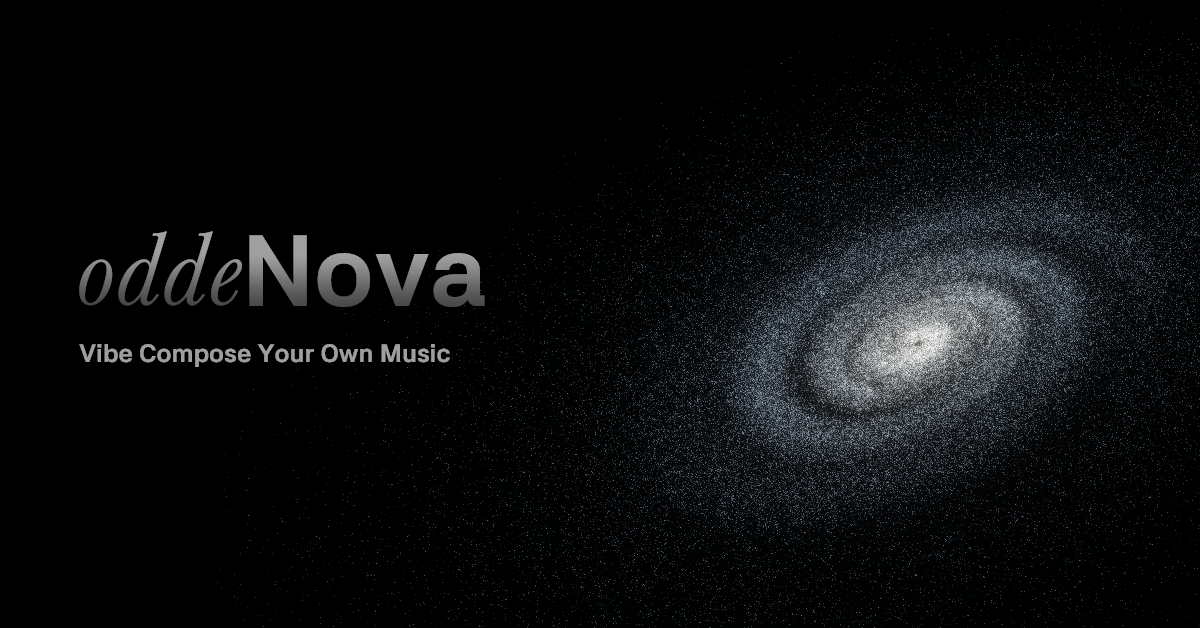
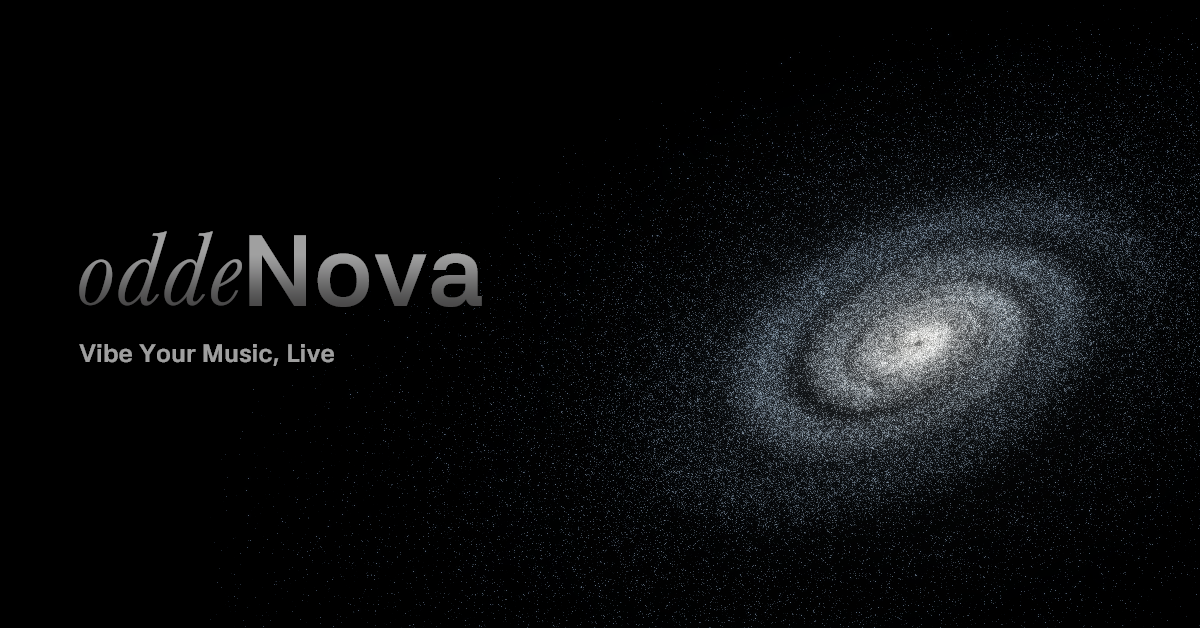
Add share page rendering and locale support
Introduce server-side share page rendering and locale-aware metadata. Adds a new API endpoint (api/share-page.ts) that fetches share payloads from blob storage, injects localized meta tags into the app shell via a new service (src/services/share-page-meta.ts), and returns an HTML page (cached for 5 minutes s-maxage=300). Add locale support to the share payload and upload flow (src/services/share.ts), pass locale from the UI (TopActionBar), and add unit tests for share-page meta rendering and share upload adjustments. Update index.html descriptions/OG text and the OG image asset, and add a Vercel rewrite so /s/:id routes to the share-page API. Tests and related fixtures added under src/services/__tests__.

Changed region(s): [[0.0925, 0.5446, 0.37, 0.5748], [0.3083, 0.3933, 0.4008, 0.4841]]

diff --git a/src/services/__tests__/share-page-meta.test.ts b/src/services/__tests__/share-page-meta.test.ts
@@ -1,0 +1,63 @@
+import { describe, expect, it } from 'vitest';
+import { renderShareHtml } from '../share-page-meta';
+
+const baseHtml = `<!doctype html>
+<html lang="zh-CN">
+  <head>
+    <meta
+      name="description"
+      content="old description"
+    />
+    <meta property="og:title" content="old title" />
+    <meta
+      property="og:description"
+      content="old og description"
+    />
+    <meta property="og:url" content="https://oddenova.com/" />
+    <meta name="twitter:title" content="old twitter title" />
+    <meta
+      name="twitter:description"
+      content="old twitter description"
+    />
+    <title>old page title</title>
+  </head>
+  <body><div id="root"></div><script type="module" src="/assets/app.js"></script></body>
+</html>`;
+
+describe('renderShareHtml', () => {
+  it('uses Chinese share metadata for zh-CN payloads', () => {
+    const html = renderShareHtml(baseHtml, {
+      locale: 'zh-CN',
+      url: 'https://oddenova.com/s/abc123',
+    });
+
+    expect(html).toContain('<html lang="zh-CN">');
+    expect(html).toContain('content="oddeNova | Vibe Your Live Music"');
+    expect(html).toContain('content="即兴 vibe 音乐，让灵感，自由发声"');
+    expect(html).toContain('property="og:url" content="https://oddenova.com/s/abc123"');
+    expect(html).toContain('<title>oddeNova | Vibe Your Live Music</title>');
+  });
+
+  it('uses English share metadata for en payloads', () => {
+    const html = renderShareHtml(baseHtml, {
+      locale: 'en',
+      url: 'https://oddenova.com/s/abc123',
+    });
+
+    expect(html).toContain('<html lang="en">');
+    expect(html).toContain('content="oddeNova | Vibe Your Live Music"');
+    expect(html).toContain('name="description"\n      content="Vibes in your head -&gt; Music in your ears"');
+    expect(html).toContain('property="og:description"\n      content="Vibes in your head -&gt; Music in your ears"');
+    expect(html).toContain('name="twitter:description"\n      content="Vibes in your head -&gt; Music in your ears"');
+    expect(html).toContain('property="og:url" content="https://oddenova.com/s/abc123"');
+  });
+
+  it('defaults old payloads without locale to Chinese metadata', () => {
+    const html = renderShareHtml(baseHtml, {
+      url: 'https://oddenova.com/s/old123',
+    });
+
+    expect(html).toContain('<html lang="zh-CN">');
+    expect(html).toContain('content="即兴 vibe 音乐，让灵感，自由发声"');
+  });
+});

diff --git a/index.html b/index.html
@@ -6,7 +6,7 @@
     <meta name="viewport" content="width=device-width, initial-scale=1.0, viewport-fit=cover" />
     <meta
       name="description"
-      content="oddeNova是一款即兴音乐制作agent。你如何vibe coding，就如何vibe一支属于你自己的单曲。让灵感，自由发声。"
+      content="Vibes in your head -> Music in your ears"
     />
     <meta name="robots" content="index, follow" />
     <meta name="application-name" content="oddeNova" />
@@ -17,7 +17,7 @@
     <meta property="og:title" content="oddeNova | Vibe Your Live Music" />
     <meta
       property="og:description"
-      content="oddeNova是一款即兴音乐制作agent。你如何vibe coding，就如何vibe一支属于你自己的单曲。让灵感，自由发声。"
+      content="Vibes in your head -> Music in your ears"
     />
     <meta property="og:type" content="website" />
     <meta property="og:url" content="https://oddenova.com/" />
@@ -28,7 +28,7 @@
     <meta name="twitter:title" content="oddeNova | Vibe Your Live Music" />
     <meta
       name="twitter:description"
-      content="oddeNova是一款即兴音乐制作agent。你如何vibe coding，就如何vibe一支属于你自己的单曲。让灵感，自由发声。"
+      content="Vibes in your head -> Music in your ears"
     />
     <meta name="twitter:image" content="https://oddenova.com/oddenova-og.png" />
 
@@ -40,7 +40,7 @@
         "url": "https://oddenova.com/",
         "applicationCategory": "MultimediaApplication",
         "operatingSystem": "Web",
-        "description": "oddeNova是一款即兴音乐制作agent。你如何vibe coding，就如何vibe一支属于你自己的单曲。让灵感，自由发声。",
+        "description": "Vibes in your head -> Music in your ears",
         "inLanguage": ["zh-CN", "en"],
         "image": "https://oddenova.com/oddenova-og.png",
         "offers": {

diff --git a/src/services/share-page-meta.ts b/src/services/share-page-meta.ts
@@ -1,0 +1,49 @@
+import type { ShareLocale } from './share';
+
+const SHARE_TITLE = 'oddeNova | Vibe Your Live Music';
+const SHARE_IMAGE = 'https://oddenova.com/oddenova-og.png';
+
+const SHARE_DESCRIPTIONS: Record<ShareLocale, string> = {
+  'zh-CN': '即兴 vibe 音乐，让灵感，自由发声',
+  en: 'Vibes in your head -> Music in your ears',
+};
+
+interface RenderShareHtmlOptions {
+  locale?: ShareLocale;
+  url: string;
+}
+
+function normalizeLocale(locale: unknown): ShareLocale {
+  return locale === 'en' ? 'en' : 'zh-CN';
+}
+
+function escapeHtmlAttr(value: string): string {
+  return value
+    .replaceAll('&', '&amp;')
+    .replaceAll('"', '&quot;')
+    .replaceAll('<', '&lt;')
+    .replaceAll('>', '&gt;');
+}
+
+function replaceMeta(html: string, selector: string, value: string): string {
+  const escaped = escapeHtmlAttr(value);
+  const pattern = new RegExp(`(<meta\\b(?=[^>]*${selector})[^>]*\\bcontent=")[^"]*("[^>]*>)`, 'i');
+  return html.replace(pattern, `$1${escaped}$2`);
+}
+
+export function renderShareHtml(html: string, options: RenderShareHtmlOptions): string {
+  const locale = normalizeLocale(options.locale);
+  const description = SHARE_DESCRIPTIONS[locale];
+
+  let out = html.replace(/<html\b[^>]*>/i, `<html lang="${locale}">`);
+  out = out.replace(/<title>.*?<\/title>/i, `<title>${SHARE_TITLE}</title>`);
+  out = replaceMeta(out, 'name="description"', description);
+  out = replaceMeta(out, 'property="og:title"', SHARE_TITLE);
+  out = replaceMeta(out, 'property="og:description"', description);
+  out = replaceMeta(out, 'property="og:url"', options.url);
+  out = replaceMeta(out, 'property="og:image"', SHARE_IMAGE);
+  out = replaceMeta(out, 'name="twitter:title"', SHARE_TITLE);
+  out = replaceMeta(out, 'name="twitter:description"', description);
+  out = replaceMeta(out, 'name="twitter:image"', SHARE_IMAGE);
+  return out;
+}

diff --git a/api/share-page.ts b/api/share-page.ts
@@ -1,0 +1,52 @@
+import type { VercelRequest, VercelResponse } from '@vercel/node';
+import { list } from '@vercel/blob';
+import { renderShareHtml } from '../src/services/share-page-meta';
+import type { SharePayload } from '../src/services/share';
+
+function getRequestOrigin(req: VercelRequest): string {
+  const proto = String(req.headers['x-forwarded-proto'] ?? 'https').split(',')[0];
+  const host = req.headers.host;
+  return `${proto}://${host}`;
+}
+
+export default async function handler(req: VercelRequest, res: VercelResponse) {
+  if (req.method !== 'GET') {
+    res.status(405).send('Method not allowed');
+    return;
+  }
+
+  const id = req.query['id'];
+  if (!id || typeof id !== 'string') {
+    res.status(400).send('Missing id');
+    return;
+  }
+
+  const { blobs } = await list({ prefix: `shares/${id}.json`, limit: 1 });
+  if (blobs.length === 0) {
+    res.status(404).send('Not found');
+    return;
+  }
+
+  const blobRes = await fetch(blobs[0].url);
+  if (!blobRes.ok) {
+    res.status(502).send('Failed to fetch share');
+    return;
+  }
+
+  const payload = (await blobRes.json()) as SharePayload;
+  const origin = getRequestOrigin(req);
+  const indexRes = await fetch(`${origin}/`);
+  if (!indexRes.ok) {
+    res.status(502).send('Failed to fetch app shell');
+    return;
+  }
+
+  const html = renderShareHtml(await indexRes.text(), {
+    locale: payload.locale,
+    url: `${origin}/s/${encodeURIComponent(id)}`,
+  });
+
+  res.setHeader('Content-Type', 'text/html; charset=utf-8');
+  res.setHeader('Cache-Control', 'public, max-age=0, s-maxage=300');
+  res.status(200).send(html);
+}

diff --git a/src/services/__tests__/share.test.ts b/src/services/__tests__/share.test.ts
@@ -17,6 +17,7 @@ describe('uploadShare', () => {
       title: 'My Session',
       code: 'note "c5"',
       messages: [],
+      locale: 'zh-CN',
     });
 
     expect(fetch).toHaveBeenCalledWith('/api/share', expect.objectContaining({
@@ -29,6 +30,7 @@ describe('uploadShare', () => {
     expect(body.version).toBe(1);
     expect(body.title).toBe('My Session');
     expect(body.code).toBe('note "c5"');
+    expect(body.locale).toBe('zh-CN');
     expect(typeof body.sharedAt).toBe('number');
     expect(shareId).toBe(mockShareId);
   });
@@ -40,7 +42,7 @@ describe('uploadShare', () => {
     } as Response);
 
     await expect(
-      uploadShare({ title: '', code: '', messages: [] })
+      uploadShare({ title: '', code: '', messages: [], locale: 'en' })
     ).rejects.toThrow('Share failed: 500');
   });
 });

diff --git a/src/services/share.ts b/src/services/share.ts
@@ -1,17 +1,21 @@
 import type { ChatMessage } from '../hooks/useChat';
 
+export type ShareLocale = 'zh-CN' | 'en';
+
 export interface SharePayload {
   version: 1;
   title: string;
   code: string;
   messages: ChatMessage[];
   sharedAt: number;
+  locale?: ShareLocale;
 }
 
 interface UploadShareInput {
   title: string;
   code: string;
   messages: ChatMessage[];
+  locale: ShareLocale;
 }
 
 export async function uploadShare(input: UploadShareInput): Promise<string> {
@@ -21,6 +25,7 @@ export async function uploadShare(input: UploadShareInput): Promise<string> {
     code: input.code,
     messages: input.messages,
     sharedAt: Date.now(),
+    locale: input.locale,
   };
 
   const res = await fetch('/api/share', {

diff --git a/src/components/TopActionBar.tsx b/src/components/TopActionBar.tsx
@@ -36,6 +36,7 @@ function ShareButton({ session, code, messages, disabled, variant = 'inline', on
         title,
         code: shareCode,
         messages: session?.messages ?? messages ?? [],
+        locale: zh ? 'zh-CN' : 'en',
       });
       const url = `${window.location.origin}/s/${shareId}`;
       await shareUrl(url);
